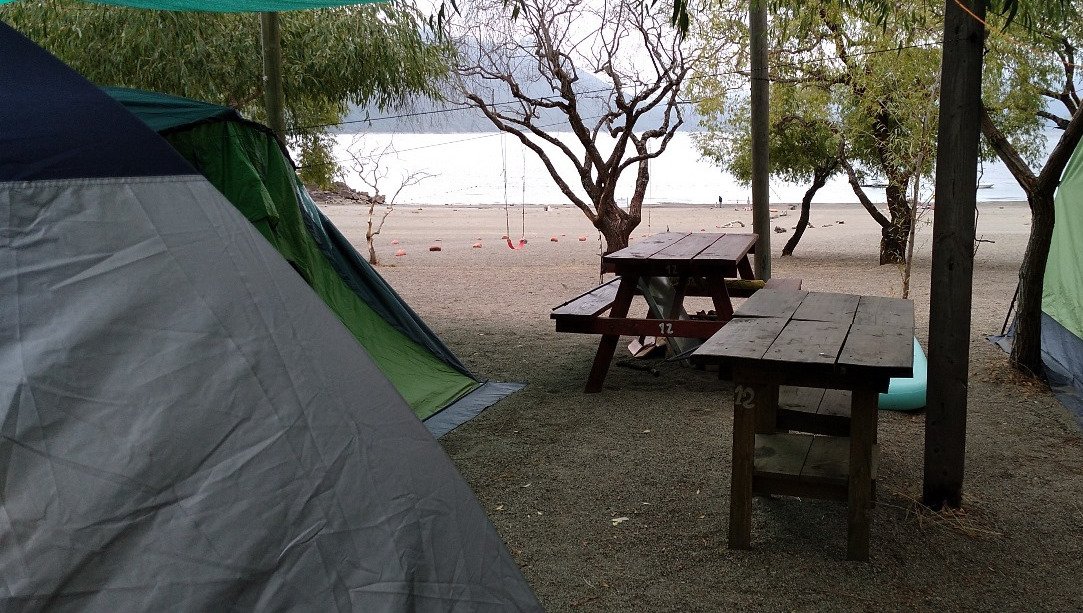
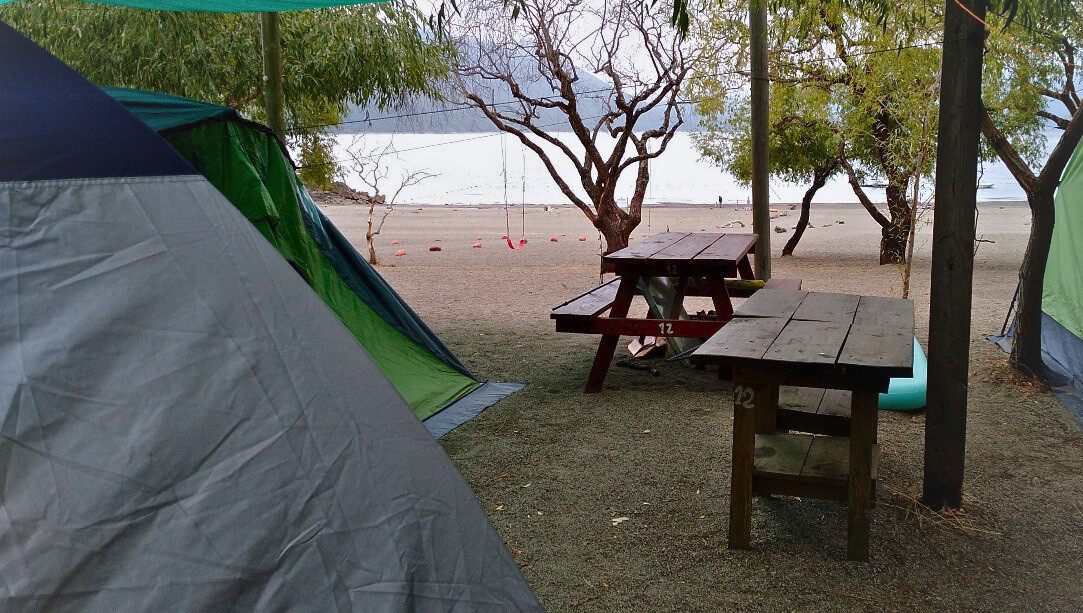
Optimiza imagenes

diff --git a/src/components/servicios.tsx b/src/components/servicios.tsx
@@ -62,8 +62,7 @@ const ServiciosInstalaciones = () => {
           </div>
         </div>
         <div className="col-span-2 flex items-center justify-center">
-          <img alt="" src="/im/hero/carpas.png" >
-          </img>
+          <img alt="" src="/im/hero/carpas.jpeg"></img>
         </div>
       </div>
     </div>
